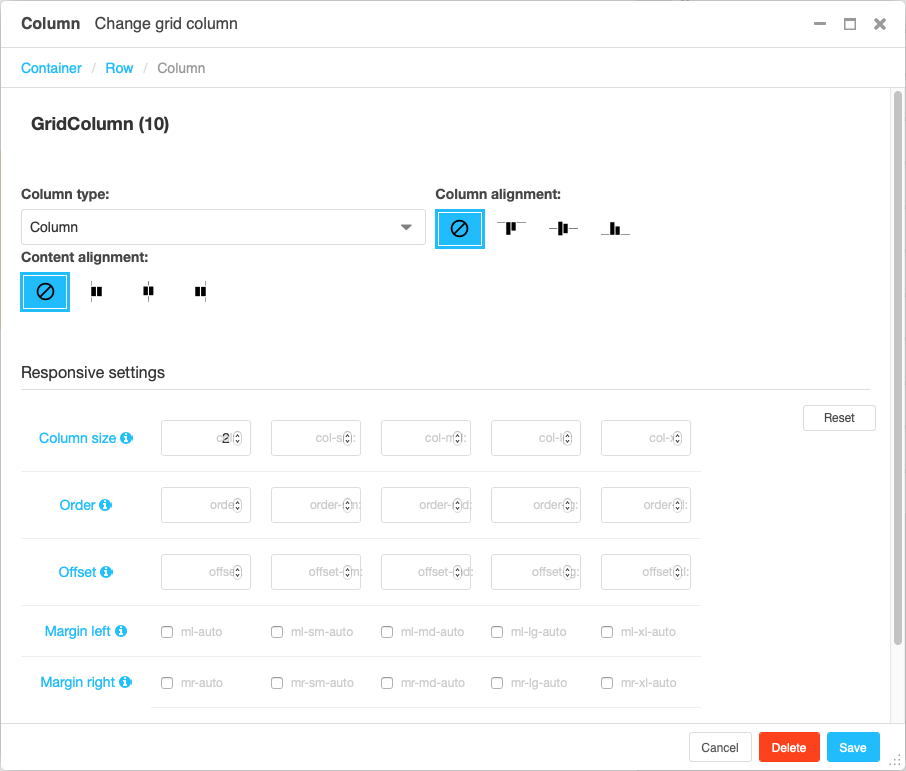
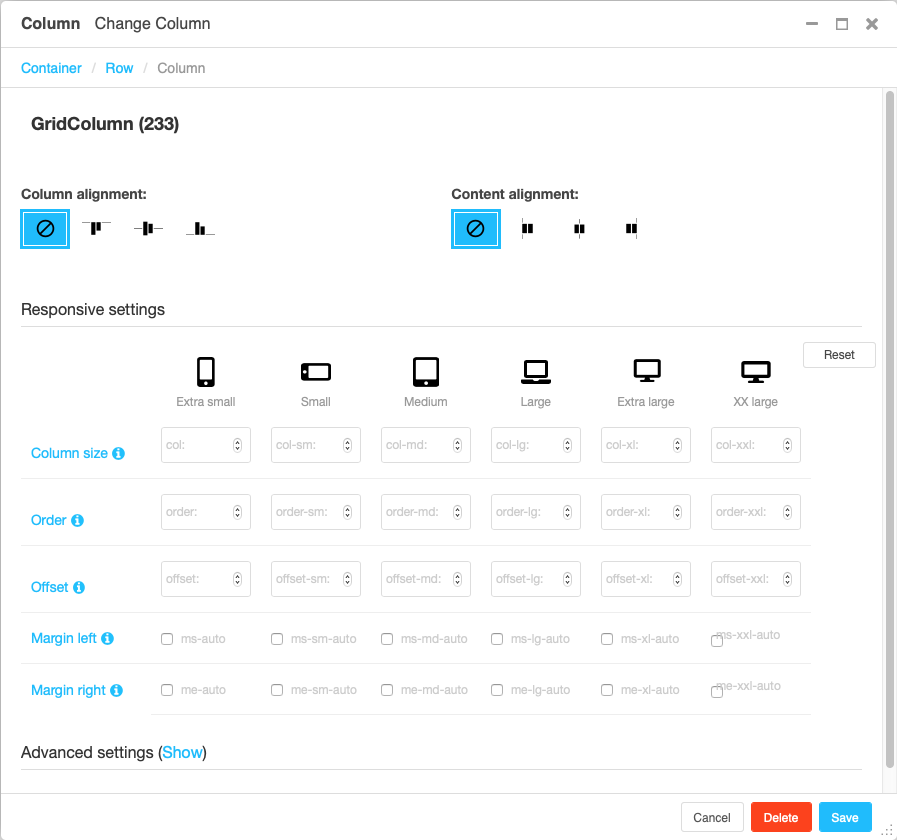
Fix:		json dumps of gettext Add:		more docs

diff --git a/djangocms_frontend/contrib/grid/templates/djangocms_frontend/admin/grid_row.html b/djangocms_frontend/contrib/grid/templates/djangocms_frontend/admin/grid_row.html
@@ -1,5 +1,5 @@
 {% extends "djangocms_frontend/admin/base.html" %}
-{% load static i18n  %}
+{% load static i18n frontend %}
 
 {% block extrahead %}
     {{ block.super }}
@@ -8,11 +8,9 @@
 
 {% block field_sets %}
     <div class="djangocms-frontend djangocms-frontend-row" data-static="{% get_static_prefix %}"
-         data-sizes='{{ plugin.framework_info.grid_sizes }}'
-         data-icons='{{ plugin.framework_info.grid_icons }}'
-         data-rows='[
-            "{% trans 'Colums per row' %}"
-         ]'
+         data-sizes='{{ plugin.framework_info.grid_sizes|json_dumps }}'
+         data-icons='{{ plugin.framework_info.grid_icons|json_dumps }}'
+         data-rows='["{% trans 'Colums per row' %}"]'
          data-links='{{ plugin.framework_info.row_links }}'
     >
         {{ block.super }}

diff --git a/djangocms_frontend/contrib/card/templates/djangocms_frontend/admin/card_layout.html b/djangocms_frontend/contrib/card/templates/djangocms_frontend/admin/card_layout.html
@@ -1,5 +1,5 @@
 {% extends "djangocms_frontend/admin/base.html" %}
-{% load static i18n  %}
+{% load static i18n frontend %}
 
 {% block extrahead %}
     {{ block.super }}
@@ -8,8 +8,8 @@
 
 {% block field_sets %}
     <div class="djangocms-frontend djangocms-frontend-card_layout djangocms-frontend-row" data-static="{% get_static_prefix %}"
-         data-sizes='{{ plugin.framework_info.grid_sizes }}'
-         data-icons='{{ plugin.framework_info.grid_icons }}'
+         data-sizes='{{ plugin.framework_info.grid_sizes|json_dumps }}'
+         data-icons='{{ plugin.framework_info.grid_icons|json_dumps }}'
          data-rows='[
             "{% trans 'Colums per row' %}"
          ]'

diff --git a/djangocms_frontend/contrib/grid/templates/djangocms_frontend/admin/grid_column.html b/djangocms_frontend/contrib/grid/templates/djangocms_frontend/admin/grid_column.html
@@ -1,5 +1,5 @@
 {% extends "djangocms_frontend/admin/base.html" %}
-{% load i18n static %}
+{% load i18n static frontend %}
 
 {% block extrahead %}
     {{ block.super }}
@@ -9,8 +9,8 @@
 {% block field_sets %}
     <div class="djangocms-frontend djangocms-frontend-column"
         data-static="{% get_static_prefix %}"
-        data-sizes='{{ plugin.framework_info.grid_sizes }}'
-        data-icons='{{ plugin.framework_info.grid_icons }}'
+        data-sizes='{{ plugin.framework_info.grid_sizes|json_dumps }}'
+        data-icons='{{ plugin.framework_info.grid_icons|json_dumps }}'
         data-rows='[
         "{% trans 'Column size' %}",
         "{% trans 'Order' %}",

diff --git a/djangocms_frontend/frameworks/bootstrap5.py b/djangocms_frontend/frameworks/bootstrap5.py
@@ -1,7 +1,7 @@
 import json
 
 from django.conf import settings
-from django.utils.translation import gettext as _
+from django.utils.translation import gettext_lazy as _
 
 DEVICE_CHOICES = (
     ("xs", _("Extra small")),  # default <576px
@@ -92,20 +92,17 @@ SHADOW_CHOICES = getattr(
     ),
 )
 
-grid_sizes = json.dumps(
-    [
-        _("Extra small"),
-        _("Small"),
-        _("Medium"),
-        _("Large"),
-        _("Extra large"),
-        _("XX large"),
-    ]
-)
+grid_sizes = [
+    _("Extra small"),
+    _("Small"),
+    _("Medium"),
+    _("Large"),
+    _("Extra large"),
+    _("XX large"),
+]
 
-grid_icons = json.dumps(
-    ["size-xs", "size-sm", "size-md", "size-lg", "size-xl", "size-xxl"]
-)
+grid_icons = ["size-xs", "size-sm", "size-md", "size-lg", "size-xl", "size-xxl"]
+
 
 FRAMEWORK_PLUGIN_INFO = {
     "GridColumn": {

diff --git a/djangocms_frontend/templatetags/frontend.py b/djangocms_frontend/templatetags/frontend.py
@@ -1,4 +1,9 @@
+import json
+
 from django import template
+from django.core.serializers.json import DjangoJSONEncoder
+from django.utils.encoding import force_text
+from django.utils.functional import Promise
 from django.utils.html import conditional_escape, mark_safe
 
 from djangocms_frontend.helpers import get_related_object as related_object
@@ -32,3 +37,15 @@ def get_attributes(attribute_field, *add_classes):
 @register.filter
 def get_related_object(reference):
     return related_object(dict(obj=reference), "obj")
+
+
+class LazyEncoder(DjangoJSONEncoder):
+    def default(self, obj):
+        if isinstance(obj, Promise):
+            return force_text(obj)
+        return super(LazyEncoder, self).default(obj)
+
+
+@register.filter
+def json_dumps(data):
+    return mark_safe(json.dumps(data, cls=LazyEncoder))

diff --git a/djangocms_frontend/contrib/grid/frameworks/bootstrap5.py b/djangocms_frontend/contrib/grid/frameworks/bootstrap5.py
@@ -1,5 +1,5 @@
 from django import forms
-from django.utils.translation import gettext as _
+from django.utils.translation import gettext_lazy as _
 from entangled.forms import EntangledModelFormMixin
 
 from djangocms_frontend import settings
@@ -41,7 +41,7 @@ class GridContainerRenderMixin:
                 ("container_opacity", "container_shadow"),
             ),
             block=None,
-            position=-2,
+            position=1,
             blockname=_("Background"),
         )
 

diff --git a/djangocms_frontend/settings.py b/djangocms_frontend/settings.py
@@ -85,7 +85,7 @@ theme_forms_path = f"{theme}.forms"
 def render_factory(cls, theme_module, render_module):
     parents = tuple(
         getattr(module, cls, None)
-        for module in (render_module, theme_module)
+        for module in (theme_module, render_module)
         if module is not None and getattr(module, cls, None) is not None
     )
     return type(cls, parents, dict())  # Empty Mix

diff --git a/djangocms_frontend/contrib/contact_form/forms.py b/djangocms_frontend/contrib/contact_form/forms.py
@@ -4,7 +4,7 @@ from django.core.exceptions import ValidationError
 from django.core.mail import EmailMessage
 from django.template.loader import render_to_string
 from django.utils.safestring import mark_safe
-from django.utils.translation import gettext as _
+from django.utils.translation import gettext_lazy as _
 
 """Soft dependency on django-captcha"""
 

diff --git a/djangocms_frontend/contrib/image/models.py b/djangocms_frontend/contrib/image/models.py
@@ -1,6 +1,6 @@
 from django.conf import settings
 from django.utils.functional import cached_property
-from django.utils.translation import gettext as _
+from django.utils.translation import gettext_lazy as _
 from easy_thumbnails.files import get_thumbnailer
 
 from djangocms_frontend.contrib.link.models import GetLinkMixin

diff --git a/djangocms_frontend/contrib/grid/models.py b/djangocms_frontend/contrib/grid/models.py
@@ -5,7 +5,7 @@ try:
 except ImportError:  # Only available since Pyhton 3.8
     cached_property = property
 
-from django.utils.translation import gettext as _
+from django.utils.translation import gettext_lazy as _
 from django.utils.translation import ungettext
 
 from djangocms_frontend.models import FrontendUIItem

diff --git a/djangocms_frontend/contrib/alert/frameworks/bootstrap5.py b/djangocms_frontend/contrib/alert/frameworks/bootstrap5.py
@@ -1,5 +1,5 @@
 from django import forms
-from django.utils.translation import gettext as _
+from django.utils.translation import gettext_lazy as _
 from entangled.forms import EntangledModelFormMixin
 
 from djangocms_frontend import settings

diff --git a/djangocms_frontend/contrib/card/frameworks/bootstrap5.py b/djangocms_frontend/contrib/card/frameworks/bootstrap5.py
@@ -1,5 +1,5 @@
 from django import forms
-from django.utils.translation import gettext as _
+from django.utils.translation import gettext_lazy as _
 from entangled.forms import EntangledModelFormMixin
 
 from djangocms_frontend import settings
